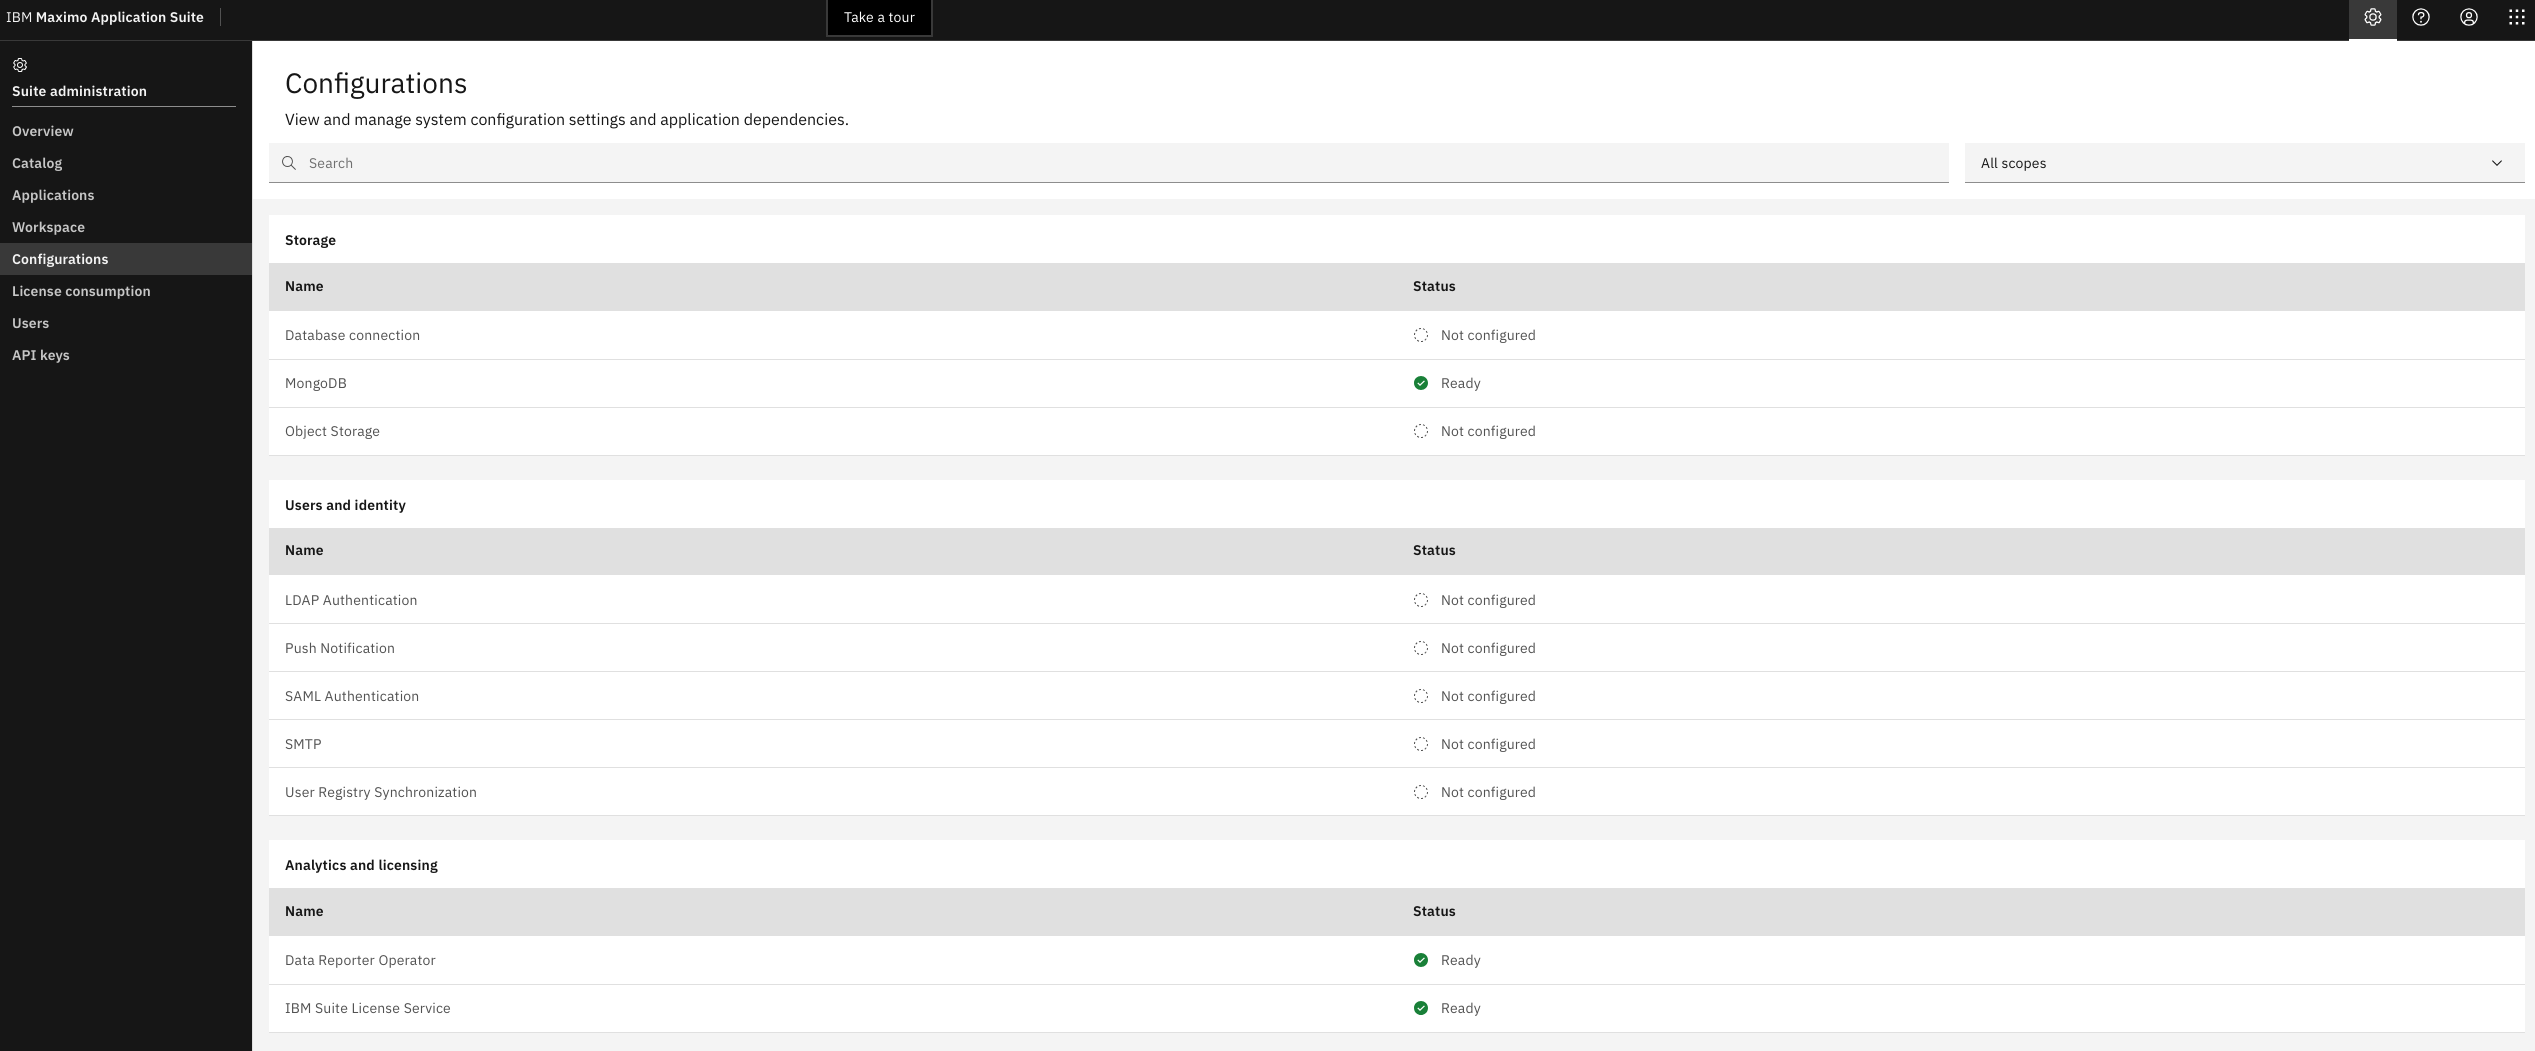
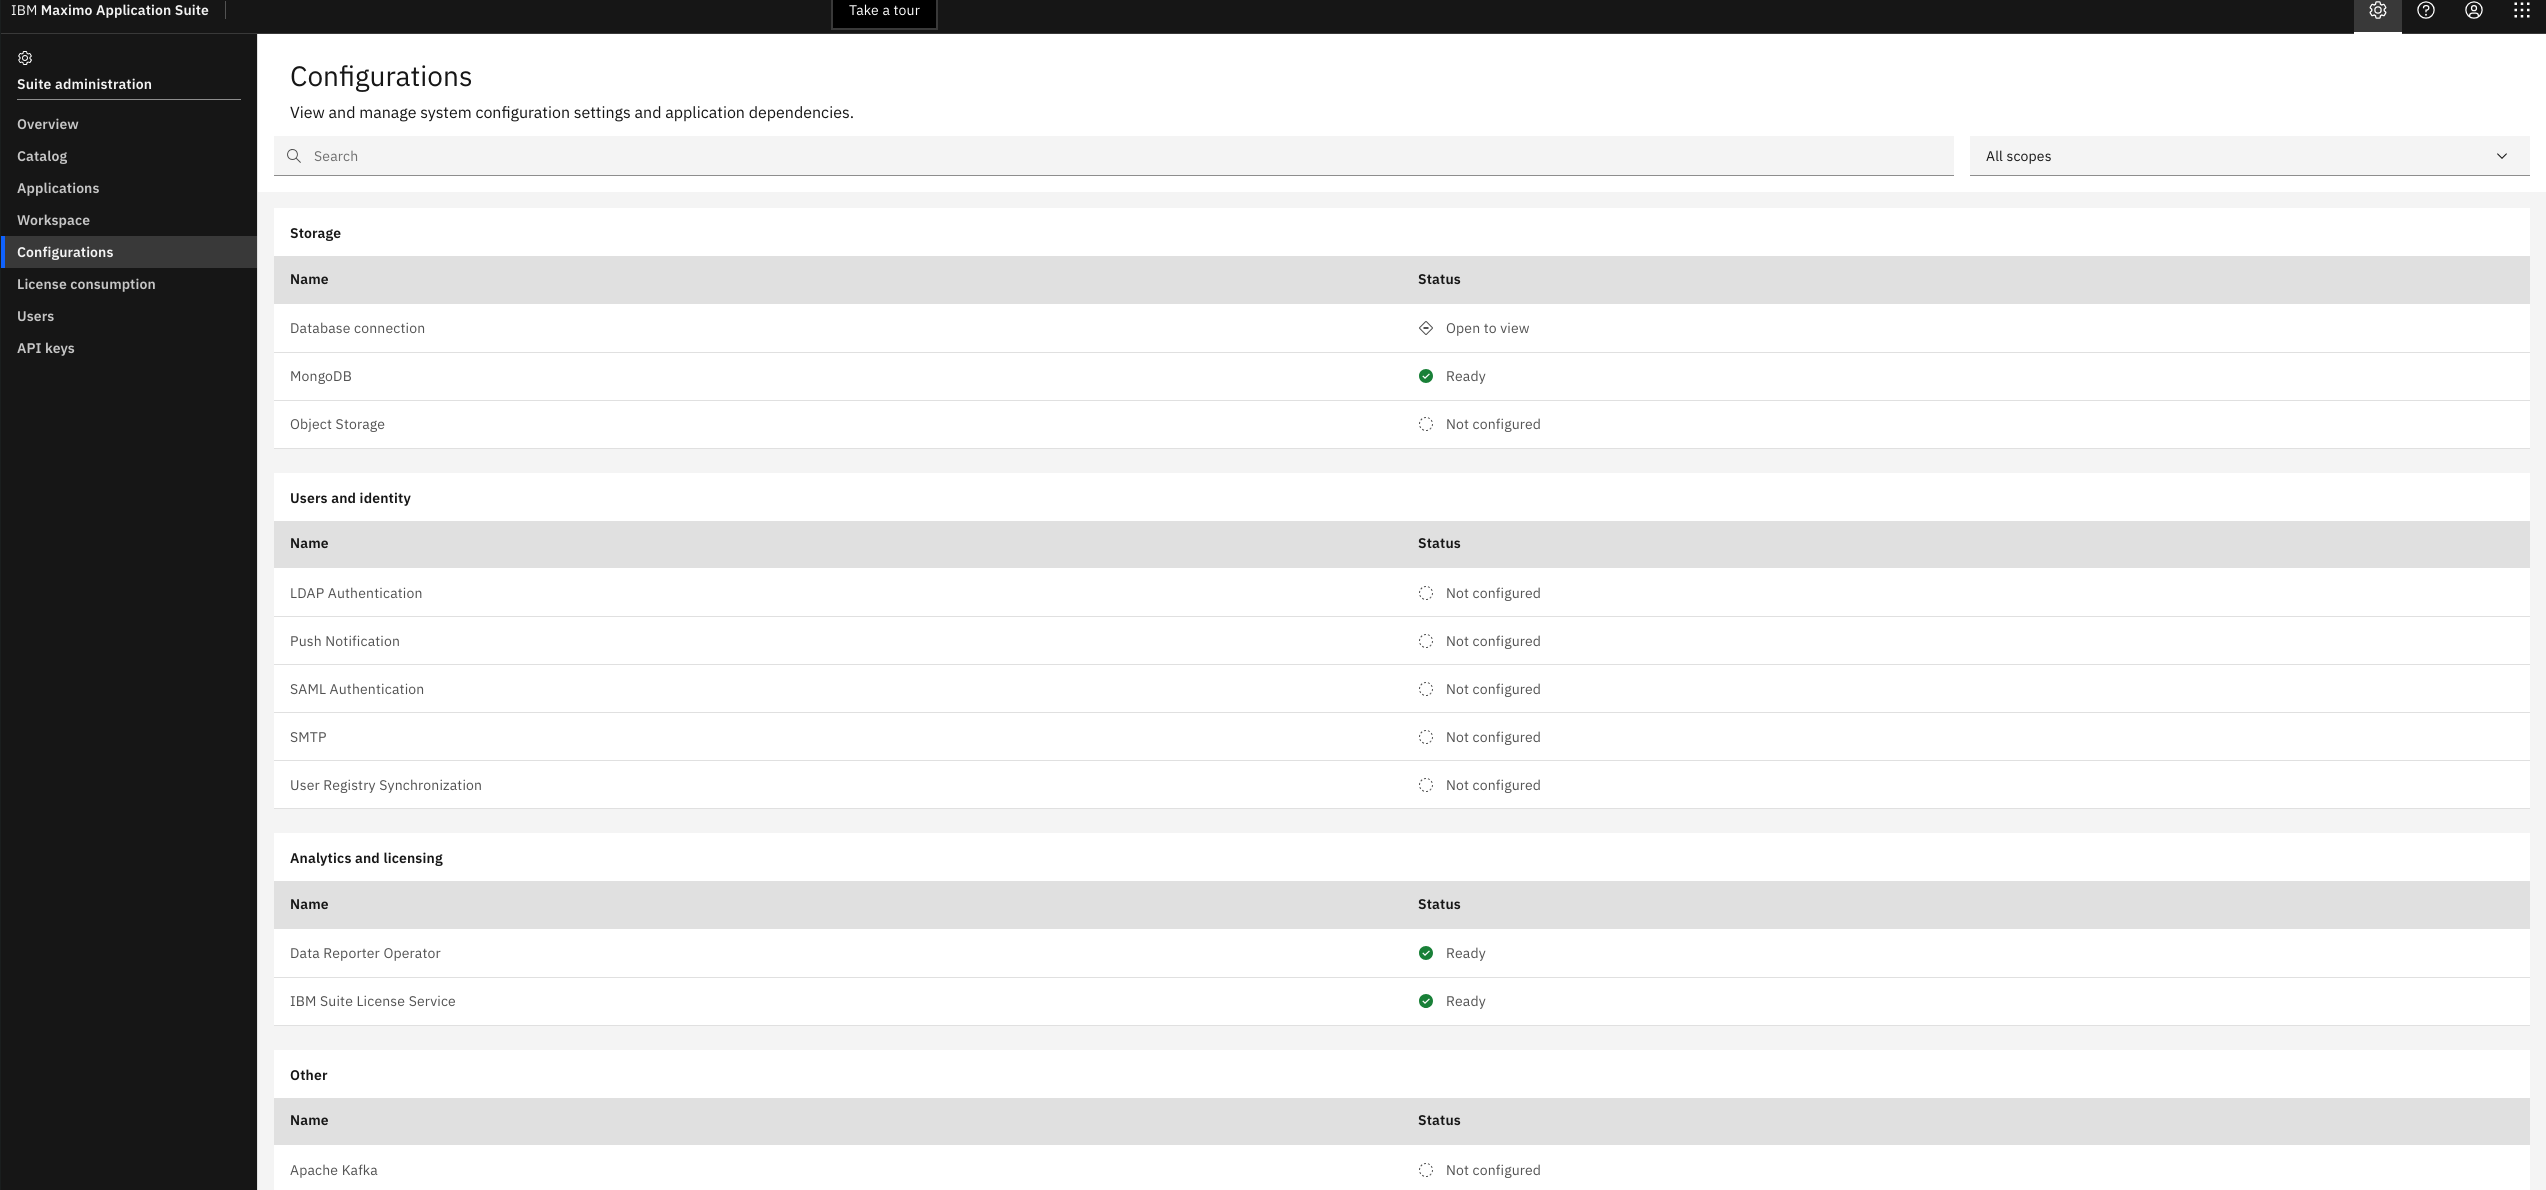
wip

diff --git a/README.md b/README.md
@@ -669,10 +669,35 @@ You will see the `<workspace>.manage.<cluster>.<instance>` application appear un
 
 ![ArgoCD after Manage activated](docs/screenshots/25-instance-root-manage-activated.png)
 
+It will take about 2 hours for the `<workspace>.manage.<cluster>.<instance>`  application to progress to `Healthy`.
 
 ## Access MAS
+> TODO: tidy this up
+
+
 > TODO: At this point, MAS is fully configured and you are able to access the admin/home dashboards (https://admin.inst1.apps.masdemo1.654x.p1.openshiftapps.com/), logging in with the superuser credentials.
 > NOTE that because we are managing MAS via gitops, changes should not be made (changing configs, installing Applications etc) via the admin UI (or the REST API) as ArgoCD is responsible for managing these and making sure that they reflect the contents of the **Git Config Repo**.
+
+
+
+
+```bash
+# get admin route and open in browser
+oc get route ${MAS_INSTANCE_ID}-admin -n mas-${MAS_INSTANCE_ID}-core -ojsonpath='{.spec.host}'
+
+
+# login with superuser creds, you can get them using the following commands:
+oc get secret ${MAS_INSTANCE_ID}-credentials-superuser -n mas-${MAS_INSTANCE_ID}-core -ojsonpath='{.data.username}' | base64 -d
+oc get secret ${MAS_INSTANCE_ID}-credentials-superuser -n mas-${MAS_INSTANCE_ID}-core -ojsonpath='{.data.password}' | base64 -d
+```
+
+Assign an email address new password to `MAXADMIN` user an replace their password. Make a note of the new password.
+
+Logout of superuser. Log back in as MAXADMIN using the new password.
+
+Hit **Launch** on Manage
+
+
 
 ![MAS Admin UI](docs/screenshots/17-mas-admin-ui.png)
 
@@ -682,11 +707,12 @@ You will see the `<workspace>.manage.<cluster>.<instance>` application appear un
 
 ![MAS Admin UI - Configurations - SLS](docs/screenshots/20-mas-admin-ui-configs-sls.png)
 
-> TODO: screenshot of MAS Application screen with Manage Activated
 
-> TODO: show how to Login to Manage
+![MAS Admin UI - Manage](docs/screenshots/27-suiteui-manage.png)
 
-> TODO: screenshot of Manage UI
+![MAS Home UI - Manage](docs/screenshots/32-home-ui-apps.png)
+
+![MAS Manage UI](docs/screenshots/28-manageui.png)
 
 
 
